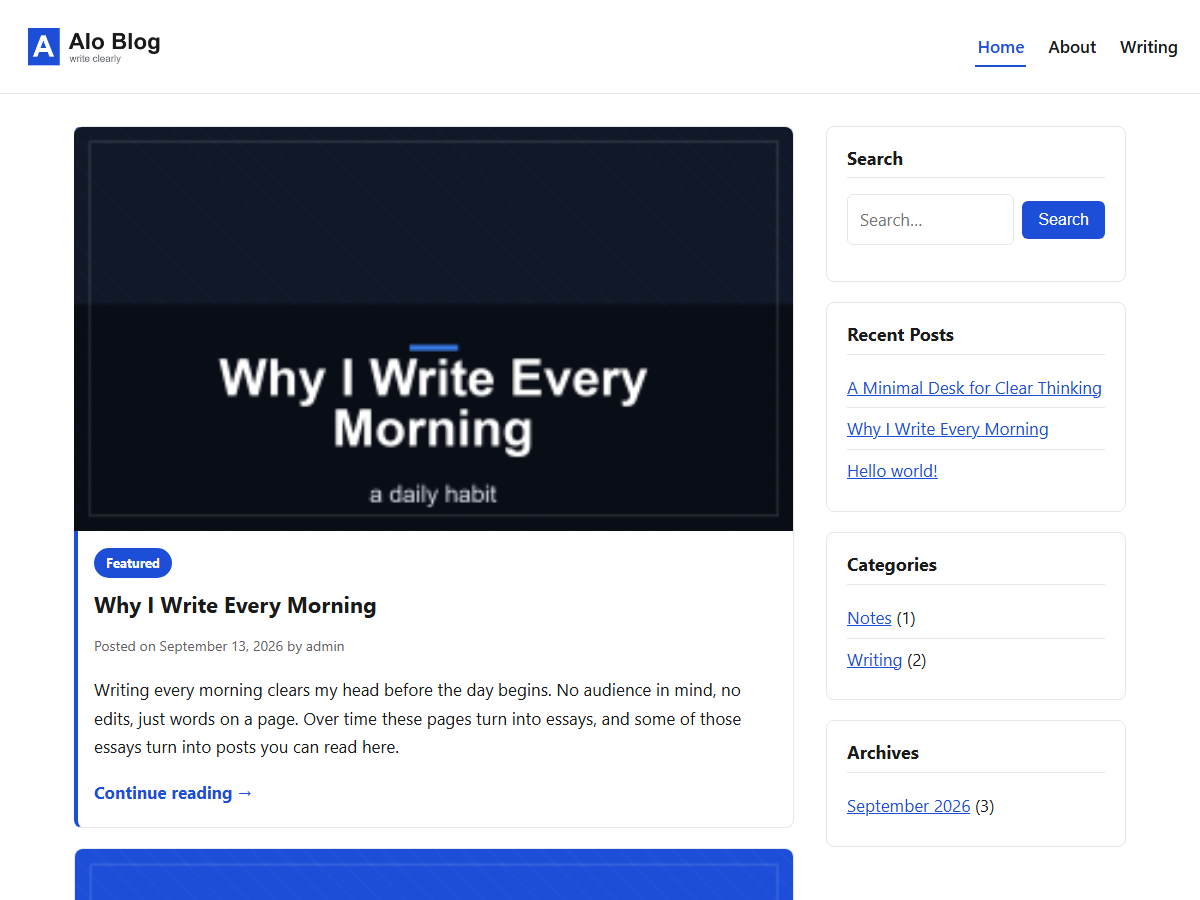
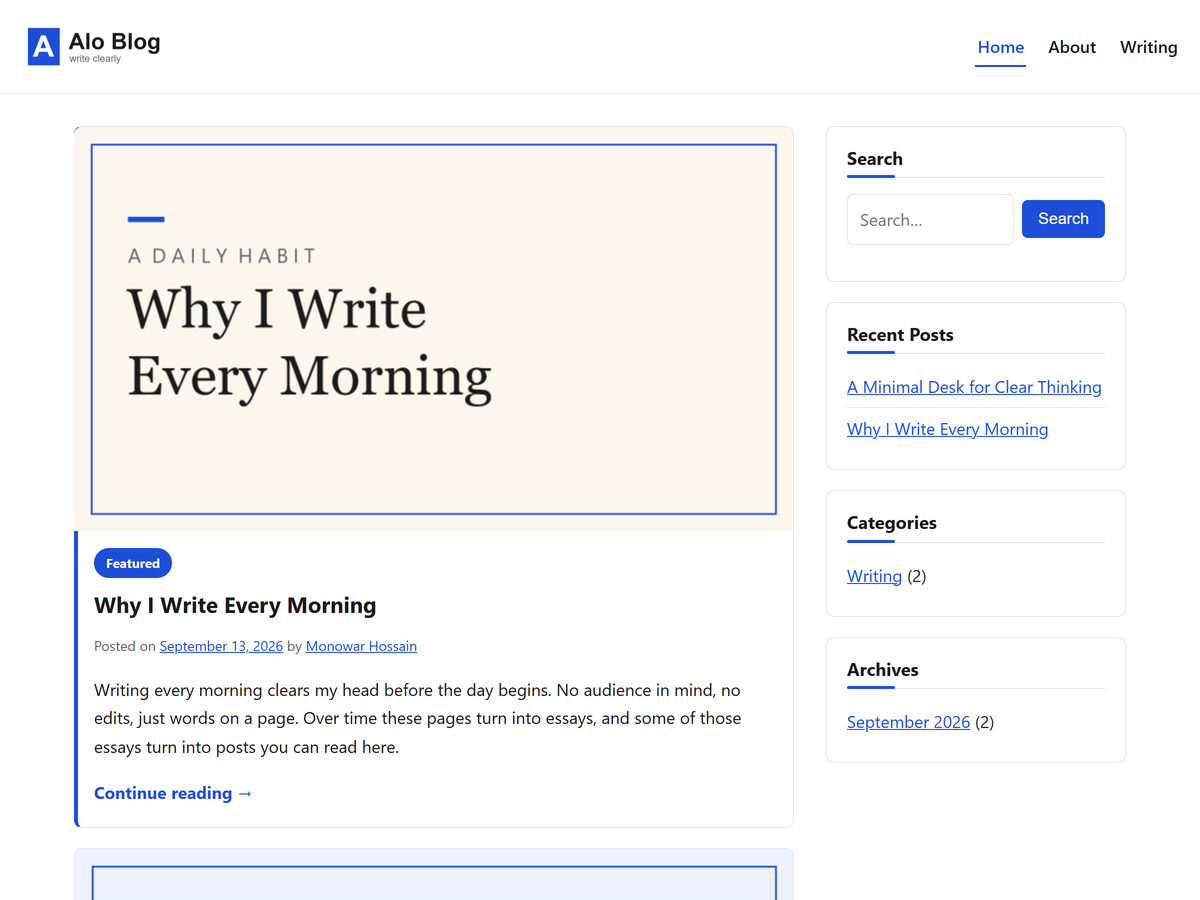
Version 1.0.3 - restyled patterns, bright covers, fresh screenshot

diff --git a/style.css b/style.css
@@ -4,7 +4,7 @@ Theme URI: https://github.com/devmonowar/alo-blog
 Author: Monowar Hossain
 Author URI: https://devmonowar.github.io/
 Description: Lightweight personal blog theme for writers. Fast, readable, keyboard and screen-reader friendly.
-Version: 1.0.2
+Version: 1.0.3
 Requires at least: 6.4
 Tested up to: 7.1
 Requires PHP: 7.4

diff --git a/patterns/hero-intro.php b/patterns/hero-intro.php
@@ -13,13 +13,12 @@ if ( ! defined( 'ABSPATH' ) ) {
 	exit;
 }
 ?>
-<!-- wp:group {"layout":{"type":"constrained","contentSize":"720px"}} -->
-<div class="wp-block-group">
-	<!-- wp:heading {"level":1} -->
-	<h1><?php echo esc_html__( 'Write clearly, publish simply.', 'alo-blog' ); ?></h1>
-	<!-- /wp:heading -->
-	<!-- wp:paragraph -->
-	<p><?php echo esc_html__( 'A fast, readable home for your personal writing. No clutter, just words.', 'alo-blog' ); ?></p>
-	<!-- /wp:paragraph -->
-</div>
+<!-- wp:group {"style":{"spacing":{"padding":{"top":"var:preset|spacing|60","bottom":"var:preset|spacing|60","left":"var:preset|spacing|50","right":"var:preset|spacing|50"}}},"backgroundColor":"primary","textColor":"background","layout":{"type":"constrained","contentSize":"720px"}} -->
+<div class="wp-block-group has-background-color has-primary-background-color has-text-color has-background"><!-- wp:heading {"textAlign":"center","level":1,"fontSize":"x-large"} -->
+<h1 class="wp-block-heading has-text-align-center has-x-large-font-size"><?php echo esc_html__( 'Write clearly, publish simply.', 'alo-blog' ); ?></h1>
+<!-- /wp:heading -->
+
+<!-- wp:paragraph {"align":"center"} -->
+<p class="has-text-align-center"><?php echo esc_html__( 'A fast, readable home for your personal writing. No clutter, just words.', 'alo-blog' ); ?></p>
+<!-- /wp:paragraph --></div>
 <!-- /wp:group -->

diff --git a/patterns/cta-subscribe-note.php b/patterns/cta-subscribe-note.php
@@ -13,13 +13,12 @@ if ( ! defined( 'ABSPATH' ) ) {
 	exit;
 }
 ?>
-<!-- wp:group {"layout":{"type":"constrained","contentSize":"720px"}} -->
-<div class="wp-block-group">
-	<!-- wp:heading {"level":2} -->
-	<h2><?php echo esc_html__( 'Follow along', 'alo-blog' ); ?></h2>
-	<!-- /wp:heading -->
-	<!-- wp:paragraph -->
-	<p><?php echo esc_html__( 'New essays arrive by email. No spam, unsubscribe anytime.', 'alo-blog' ); ?></p>
-	<!-- /wp:paragraph -->
-</div>
+<!-- wp:group {"style":{"spacing":{"padding":{"top":"var:preset|spacing|50","bottom":"var:preset|spacing|50","left":"var:preset|spacing|50","right":"var:preset|spacing|50"}},"border":{"width":"2px","radius":"8px"}},"borderColor":"primary","layout":{"type":"constrained","contentSize":"720px"}} -->
+<div class="wp-block-group has-border-color has-primary-border-color" style="border-width:2px;border-radius:8px"><!-- wp:heading {"textAlign":"center","level":2} -->
+<h2 class="wp-block-heading has-text-align-center"><?php echo esc_html__( 'Follow along', 'alo-blog' ); ?></h2>
+<!-- /wp:heading -->
+
+<!-- wp:paragraph {"align":"center"} -->
+<p class="has-text-align-center"><?php echo esc_html__( 'New essays arrive by email. No spam, unsubscribe anytime.', 'alo-blog' ); ?></p>
+<!-- /wp:paragraph --></div>
 <!-- /wp:group -->

diff --git a/patterns/quote.php b/patterns/quote.php
@@ -13,10 +13,8 @@ if ( ! defined( 'ABSPATH' ) ) {
 	exit;
 }
 ?>
-<!-- wp:quote -->
-<blockquote class="wp-block-quote">
-	<!-- wp:paragraph -->
-	<p><?php echo esc_html__( 'Good writing is clear thinking made visible.', 'alo-blog' ); ?></p>
-	<!-- /wp:paragraph -->
-</blockquote>
+<!-- wp:quote {"className":"is-style-accent"} -->
+<blockquote class="wp-block-quote is-style-accent"><!-- wp:paragraph -->
+<p><?php echo esc_html__( 'Good writing is clear thinking made visible.', 'alo-blog' ); ?></p>
+<!-- /wp:paragraph --><cite><?php echo esc_html__( 'A writer’s notebook', 'alo-blog' ); ?></cite></blockquote>
 <!-- /wp:quote -->

diff --git a/functions.php b/functions.php
@@ -12,7 +12,7 @@ if ( ! defined( 'ABSPATH' ) ) {
 	exit;
 }
 
-define( 'ALOBLOG_VERSION', '1.0.2' );
+define( 'ALOBLOG_VERSION', '1.0.3' );
 
 require get_template_directory() . '/inc/setup.php';
 require get_template_directory() . '/inc/enqueue.php';
